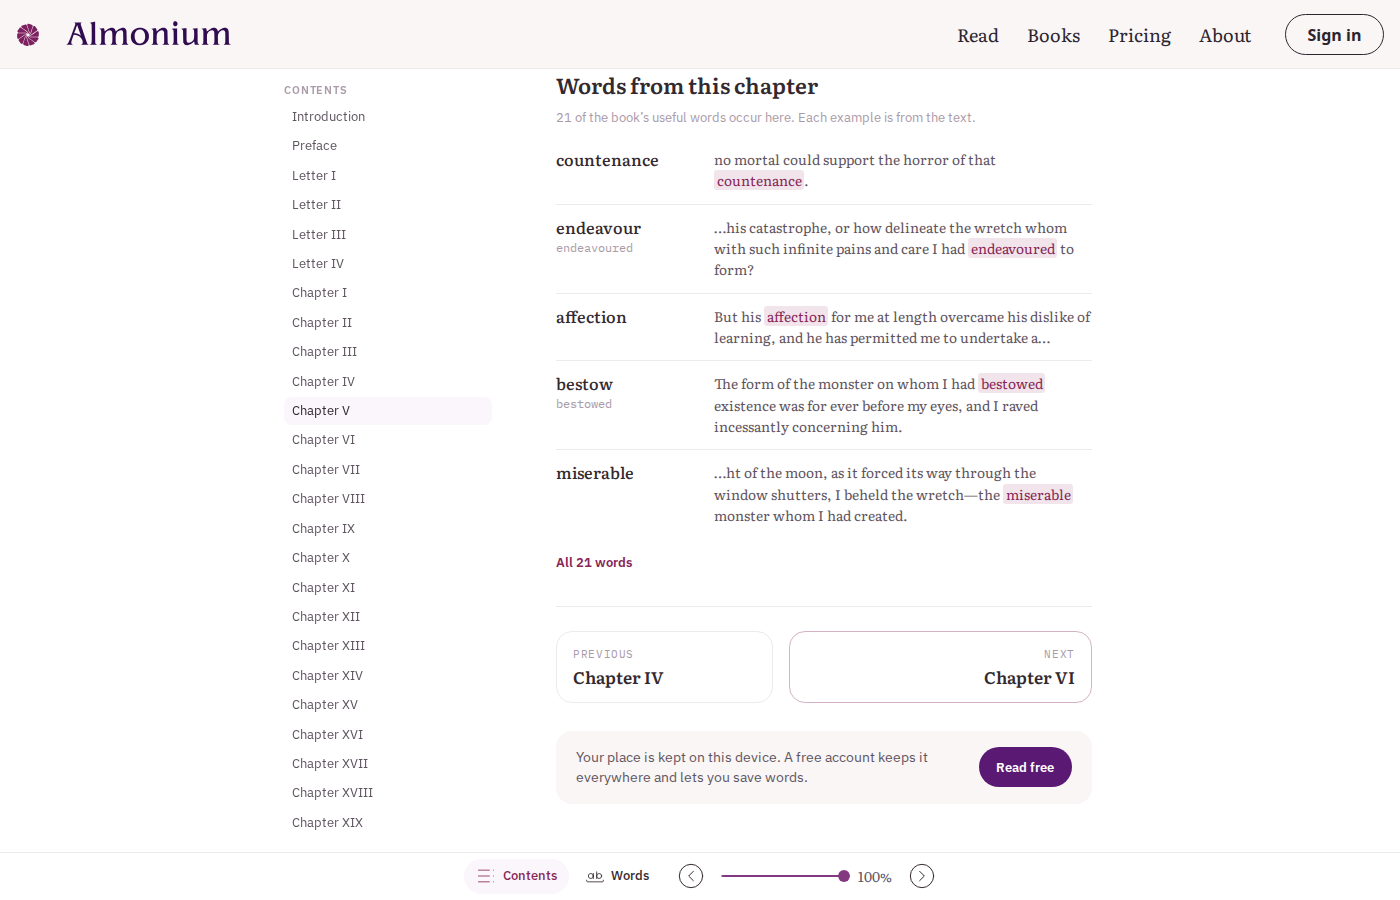
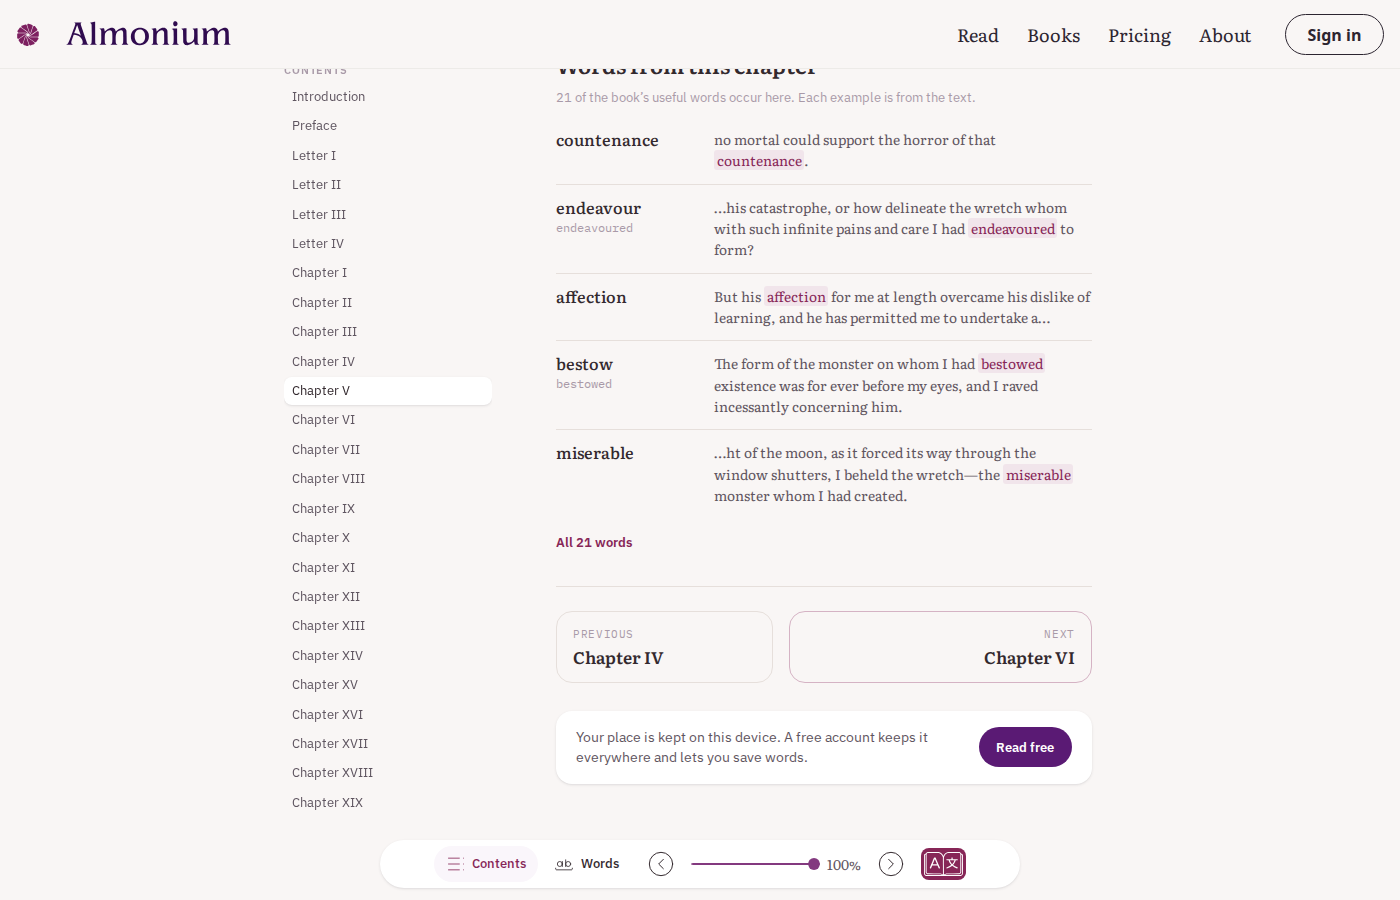
Set the chapter page on cream and float only the card, rail, bar and pill
The J2/J3 revision: the page is the bg-page cream, the same paper as the
navbar, with no card under the text. White is for what floats over it,
the word card and Words rail, the bottom bar as a pill, the chapter-end
account panel and the contents rail's current row. Hairlines on cream
are --hairline-on-ground (#e6dfdb); #edebe8 stays inside white cards.

diff --git a/src/app/sections/read/reader/reader.component.less b/src/app/sections/read/reader/reader.component.less
@@ -2,8 +2,10 @@
 :host {
   --font-family: var(--font-family-reading);
   --text-color: var(--reader-text-color);
-  --background-color: var(--card-color); // Reader page surface
-  --main-bg-color: var(--page-ground); // App ground
+  // The page is the cream paper of the navbar; white is only for what floats over it.
+  --background-color: var(--page-ground);
+  --float-color: var(--card-color);
+  --main-bg-color: var(--page-ground);
   --button-bg: var(--nested-color);
   --button-hover-bg: var(--state-hover);
   --error-color: var(--danger-text-color);
@@ -39,7 +41,7 @@
   position: absolute;
   z-index: 5;
   right: 1rem;
-  bottom: 5.4rem;
+  bottom: 6.2rem;
   left: 1rem;
   display: flex;
   width: min(calc(100% - 2rem), 520px);
@@ -89,7 +91,7 @@
   padding: .35rem .7rem;
   border: 0;
   border-radius: 999px;
-  background: var(--card-color);
+  background: var(--float-color);
   box-shadow: var(--box-shadow);
   color: var(--subhead-color);
   cursor: pointer;
@@ -104,7 +106,7 @@
 }
 
 @media (max-width: 900px) {
-  .reader-rail { top: auto; right: 1rem; bottom: 3.6rem; left: 1rem; width: auto; max-height: 70vh; margin: 0 auto; }
+  .reader-rail { top: auto; right: 1rem; bottom: 4.6rem; left: 1rem; width: auto; max-height: 70vh; margin: 0 auto; }
 }
 
 // The parallel settings (G5) sit above the bottom bar, where their effect is visible behind them.
@@ -112,7 +114,7 @@
   position: absolute;
   z-index: 6;
   right: 1rem;
-  bottom: 3.6rem;
+  bottom: 4.6rem;
 }
 
 @media (max-width: 560px) {
@@ -181,7 +183,7 @@
   gap: .3rem;
   margin: .5rem 0 1.75rem;
   padding-bottom: 1.25rem;
-  border-bottom: 1px solid var(--hairline-color);
+  border-bottom: 1px solid var(--hairline-on-ground);
   font-family: var(--font-family-ui);
 }
 
@@ -216,7 +218,7 @@
   grid-template-columns: minmax(0, 1fr) minmax(0, 1.4fr);
   gap: 1rem;
   padding-top: 1.5rem;
-  border-top: 1px solid var(--hairline-color);
+  border-top: 1px solid var(--hairline-on-ground);
 }
 
 .chapter-end__link {
@@ -224,7 +226,7 @@
   flex-direction: column;
   gap: .3rem;
   padding: .9rem 1rem;
-  border: 1px solid var(--hairline-color);
+  border: 1px solid var(--hairline-on-ground);
   border-radius: 1rem;
   color: inherit;
   text-decoration: none;
@@ -244,7 +246,8 @@
   gap: 1rem;
   padding: 1rem 1.25rem;
   border-radius: 1rem;
-  background: var(--nested-color);
+  background: var(--float-color);
+  box-shadow: var(--box-shadow);
 
   p { margin: 0; color: var(--subhead-color); font-size: .86rem; line-height: 1.5; }
   button { flex: 0 0 auto; min-height: 2.5rem; padding: .55rem 1.1rem; border: 0; border-radius: 999px; background: var(--brand-primary); color: var(--on-brand-color); cursor: pointer; font: inherit; font-size: .84rem; font-weight: 600; white-space: nowrap; }
@@ -289,7 +292,8 @@
   text-decoration: none;
 
   &:hover, &:focus-visible { background: var(--state-hover); color: var(--text-color); outline: none; }
-  &.is-current { background: var(--state-selected); color: var(--text-color); }
+  // The current row is the one white pill on the cream ground.
+  &.is-current { background: var(--float-color); box-shadow: var(--box-shadow); color: var(--text-color); }
 }
 
 .content-map__name { overflow: hidden; text-overflow: ellipsis; white-space: nowrap; }
@@ -302,15 +306,18 @@
 .content-map--sheet {
   position: absolute;
   z-index: 7;
-  bottom: 3.6rem;
+  bottom: 4.6rem;
   left: 1rem;
   width: min(calc(100% - 2rem), 22rem);
   max-height: 70vh;
   padding: 1rem 1rem 1.1rem;
   border-radius: 1.25rem;
-  background: var(--card-color);
+  background: var(--float-color);
   box-shadow: var(--overlay-shadow);
 }
+
+// Inside the white sheet the current row sits on the tint instead.
+.content-map--sheet .content-map__row.is-current { background: var(--state-selected); box-shadow: none; }
 
 .reader-content {
   font-size: 19px;
@@ -536,17 +543,24 @@
   }
 }
 
-// --- Pagination/Navigation Controls ---
+// --- The bottom bar (J4): a white pill floating over the cream ground ---
 .pagination-controls {
   flex-shrink: 0;
   display: flex;
   align-items: center;
   justify-content: center;
-  border-top: 1px solid var(--hairline-color);
-  background-color: var(--background-color);
+  width: min(calc(100% - 2rem), 40rem);
+  margin: .5rem auto .75rem;
+  padding: .3rem .6rem;
+  border-radius: 999px;
+  background-color: var(--float-color);
+  box-shadow: var(--box-shadow);
   user-select: none;
-  padding: 0 .5rem;
   min-height: 3rem;
+}
+
+@media (max-width: 640px) {
+  .pagination-controls { margin: .4rem auto .5rem; }
 }
 
 .pagination-center-area {

diff --git a/src/app/sections/read/reader/chapter-vocabulary.component.less b/src/app/sections/read/reader/chapter-vocabulary.component.less
@@ -16,7 +16,8 @@
 .vocab__arrows button:hover { background: var(--state-hover); color: var(--text-color); }
 
 .vocab__list { display: flex; flex-direction: column; margin: 0; padding: 0; list-style: none; }
-.vocab__list li + li { border-top: 1px solid var(--hairline-color); }
+.vocab__list li + li { border-top: 1px solid var(--hairline-on-ground); }
+.vocab--rail .vocab__list li + li { border-top-color: var(--hairline-color); }
 .vocab__row { display: grid; width: 100%; grid-template-columns: minmax(6.5rem, 9rem) minmax(0, 1fr); gap: .25rem .9rem; padding: .75rem 0; border: 0; border-radius: .5rem; background: transparent; color: inherit; cursor: pointer; font: inherit; text-align: left; }
 .vocab__row:hover, .vocab__row:focus-visible { background: var(--state-hover); outline: none; }
 .vocab__row:focus-visible { box-shadow: 0 0 0 2px var(--brand-margin); }
@@ -35,5 +36,5 @@
 .vocab--rail .vocab__row { grid-template-columns: minmax(5.5rem, 7.5rem) minmax(0, 1fr); padding-right: .5rem; padding-left: .5rem; }
 
 // The chapter end (J3): a plain block under the last paragraph.
-.vocab--end { padding-top: 1.75rem; border-top: 1px solid var(--hairline-color); }
+.vocab--end { padding-top: 1.75rem; border-top: 1px solid var(--hairline-on-ground); }
 .vocab--end .vocab__title { font-size: 1.35rem; }

diff --git a/src/styles/variables.less b/src/styles/variables.less
@@ -22,7 +22,8 @@
   --card-color: #fff;
   --nested-color: #F9F6F5;
   --overlay-color: #fff;
-  --hairline-color: #edebe8;
+  --hairline-color: #edebe8; // inside white cards
+  --hairline-on-ground: #e6dfdb; // on the cream page ground
   --control-border-color: #d8cfd6;
   --secondary-control-border-color: var(--control-border-color);
   --secondary-control-fill: var(--card-color);

diff --git a/src/styles.less b/src/styles.less
@@ -20,6 +20,7 @@ html[data-motion='reduced'] *::after {
   --nested-color: #272130;
   --overlay-color: #2E2736;
   --hairline-color: #332C3C;
+  --hairline-on-ground: #2A2433;
   --control-border-color: #453D51;
   --secondary-control-border-color: #6B6178;
   --secondary-control-fill: rgba(241, 234, 239, .07);

diff --git a/docs/PROCESSOR_READER.md b/docs/PROCESSOR_READER.md
@@ -124,6 +124,16 @@ page's Continue row is pinned from this device's place only. The public chapter
 projection has no front/back-matter role yet, so the book page treats every
 chapter as a body chapter.
 
+Ground (2026-09-17 revision of J2/J3): the chapter page is the cream page
+ground, the same paper as the navbar, with no card under the text. White is
+only for what floats: the word card, the Words rail, the bottom bar (a pill),
+the chapter-end account panel and the contents rail's current-row pill.
+Hairlines on cream use `--hairline-on-ground` (#e6dfdb); `--hairline-color`
+(#edebe8) stays for hairlines inside white cards. The contents rail shows the
+description on the current row and on a hovered row; the live Frankenstein
+edition has every chapter `stale` with no descriptions, so that is visible only
+in the fixture screenshot `contents-rail-descriptions.png`.
+
 Verification: 290 unit tests, lint and a development build pass; 11 browser
 tests with intercepted fixtures pass (`e2e/chapter-vocabulary.spec.ts` covers
 the guest chapter page, the rail, the card ask and the book contents;
